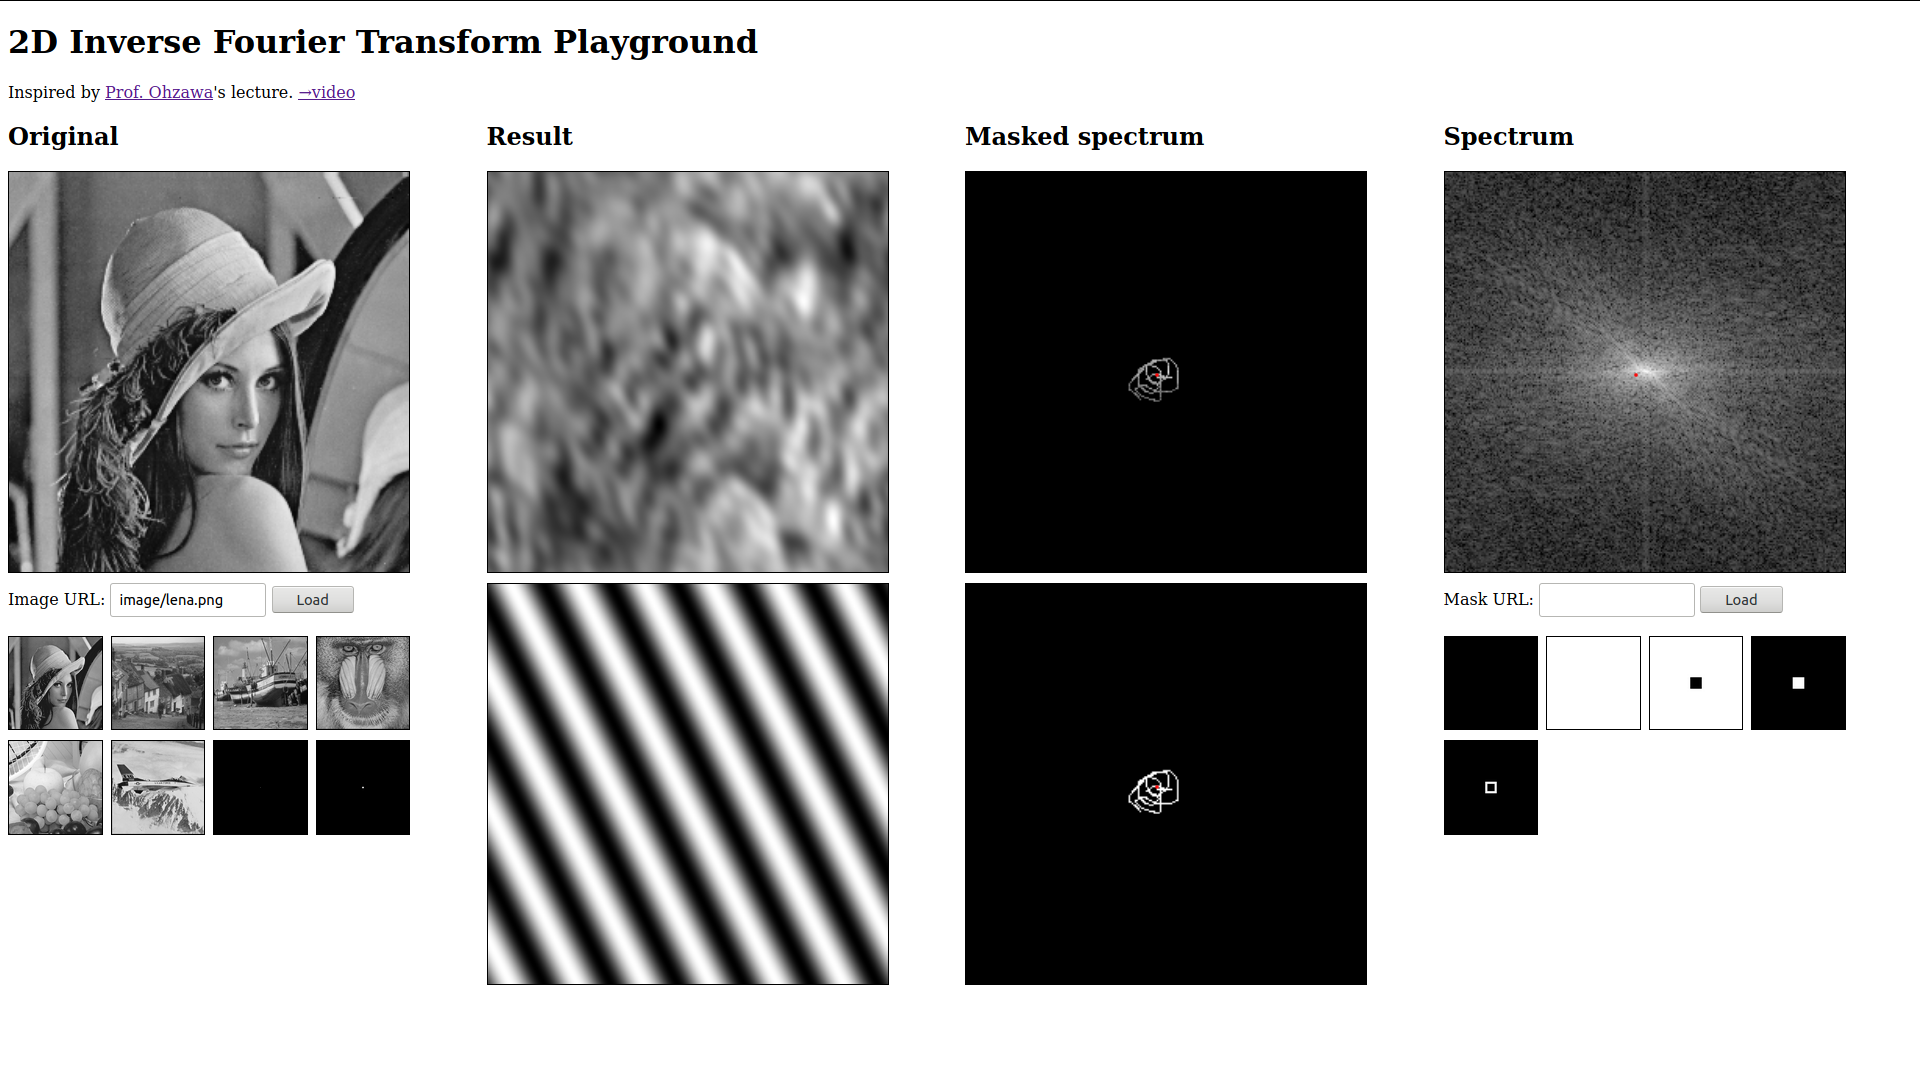
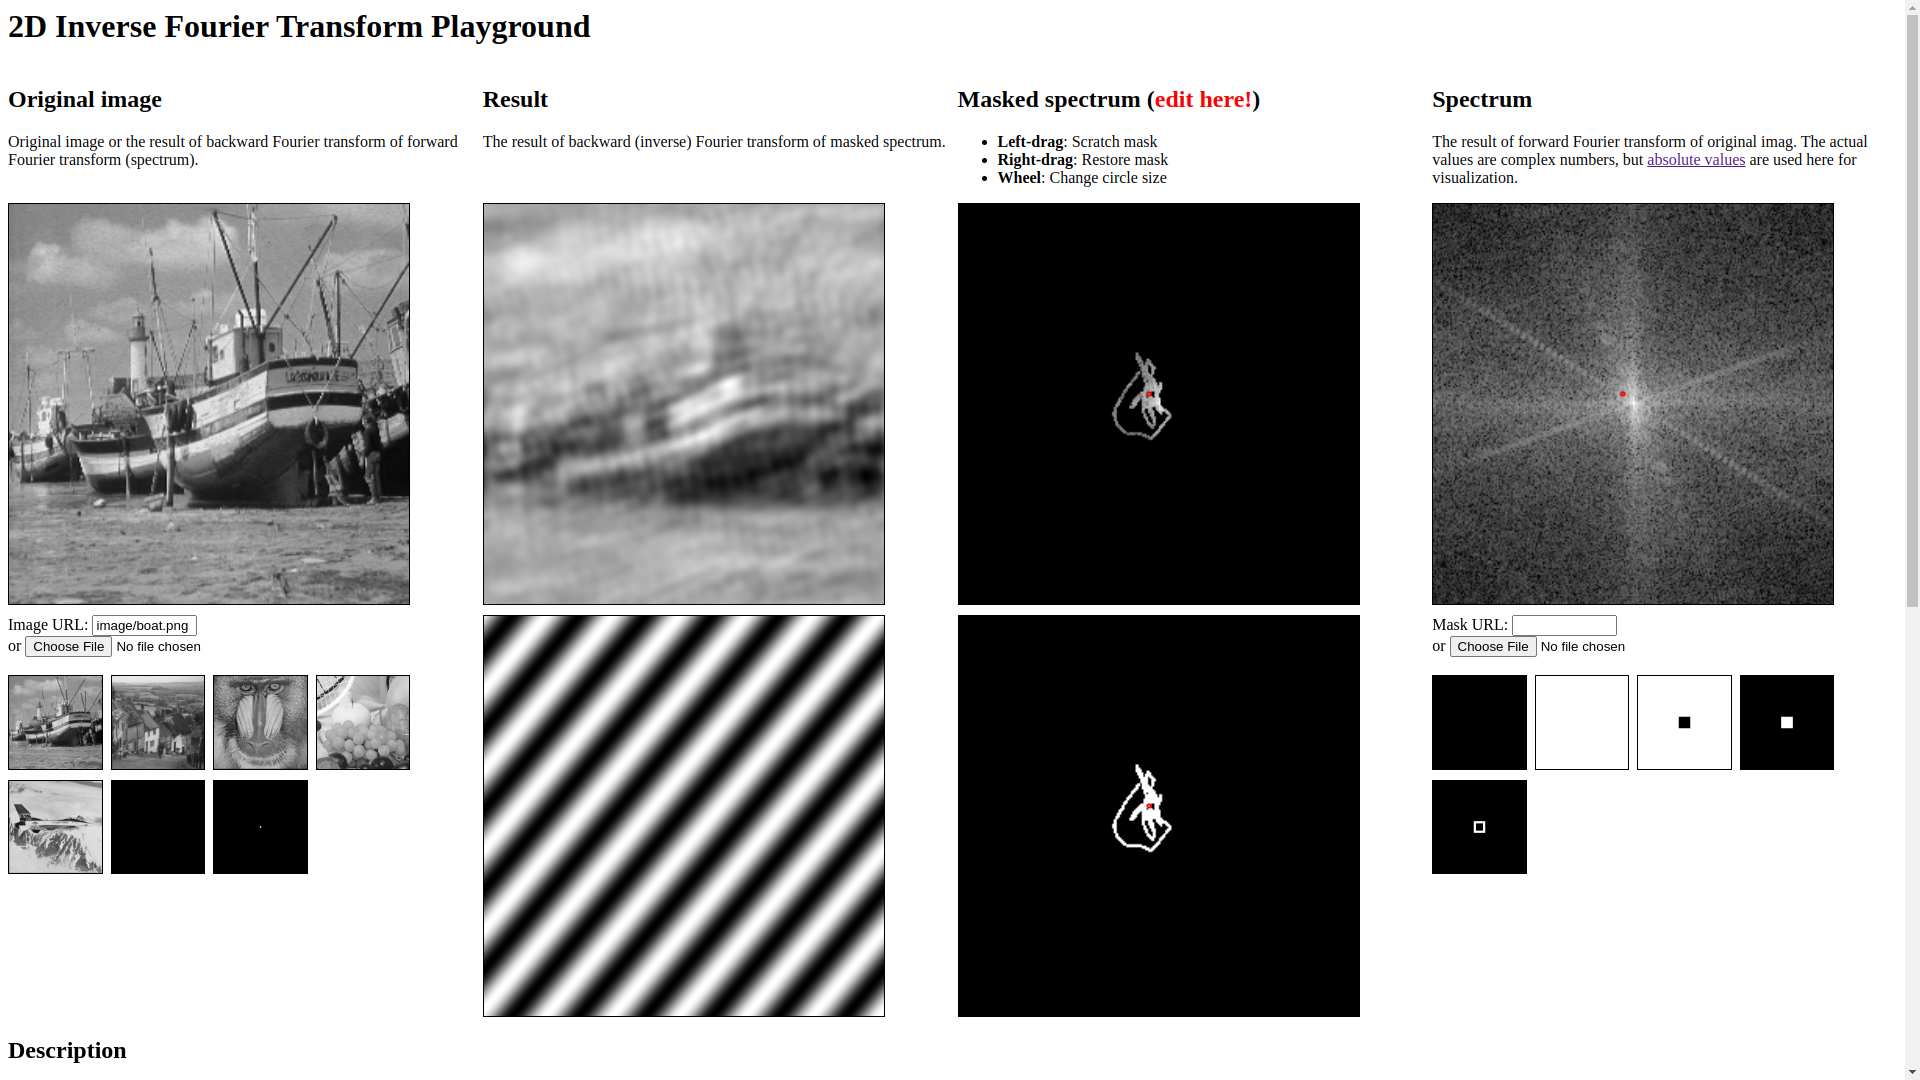
Remove Lena image

diff --git a/main.js b/main.js
@@ -114,7 +114,7 @@ function render(material, texA, texB, target, ctx) {
 const app = new Vue({
     el: '.app',
     data: {
-        imageURL: 'image/lena.png',
+        imageURL: 'image/boat.png',
         maskURL:  '',
         uniforms: uniforms,
         N: N,
@@ -125,9 +125,8 @@ const app = new Vue({
             mask: false,
         },
         images: [
-            'image/lena.png',
-            'image/goldhill.png',
             'image/boat.png',
+            'image/goldhill.png',
             'image/baboon.png',
             'image/fruits.png',
             'image/airplane.png',
